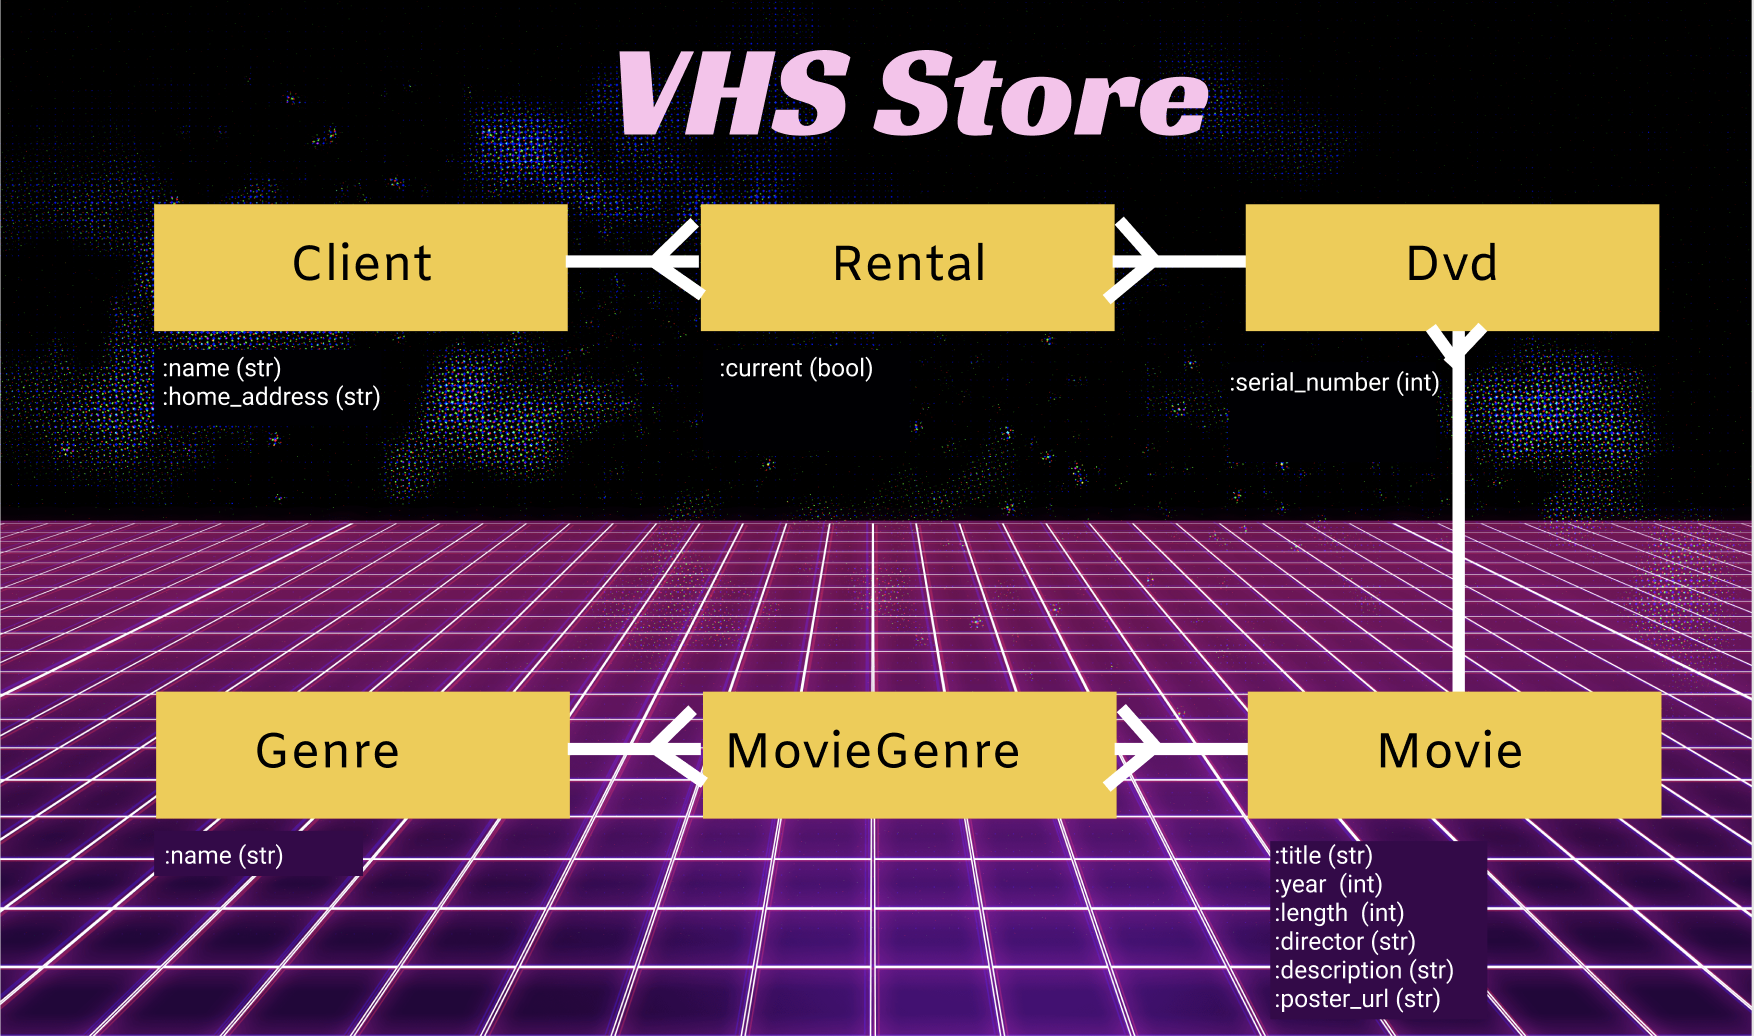
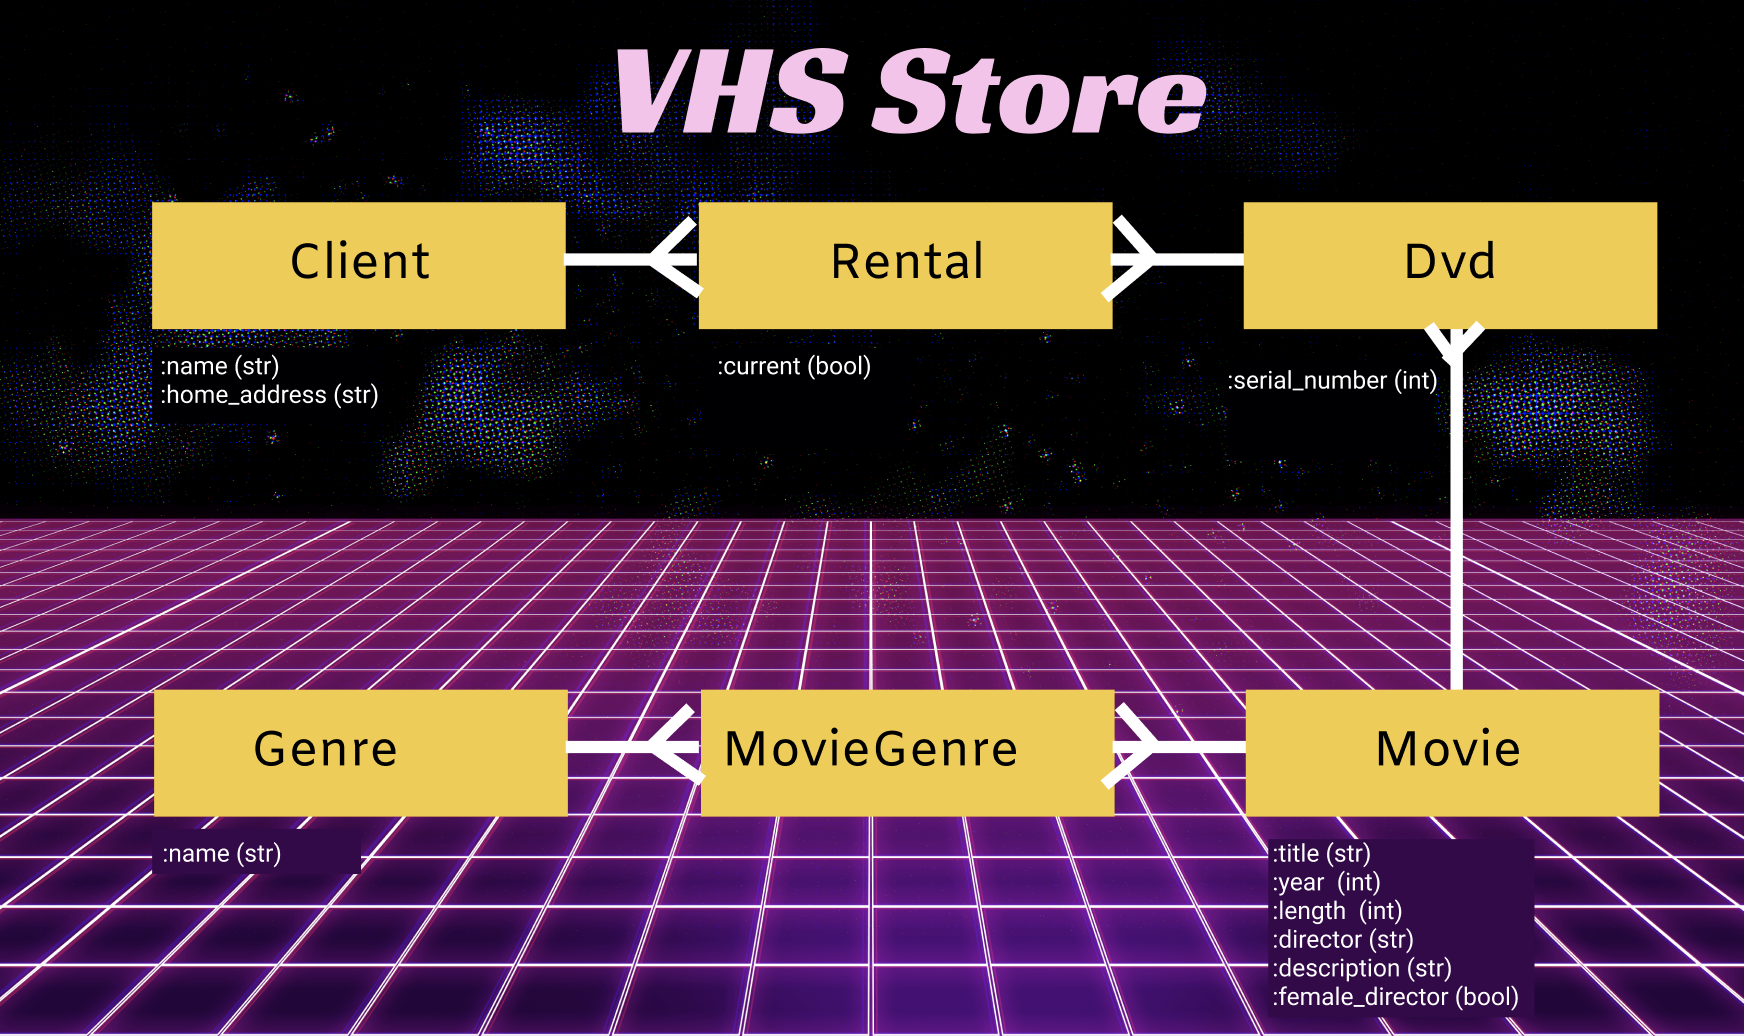
creates seeds

diff --git a/db/seeds.rb b/db/seeds.rb
@@ -1,66 +1,233 @@
-Plant.destroy_all
-Person.destroy_all
-PlantParenthood.destroy_all
-Plant.reset_pk_sequence
-Person.reset_pk_sequence
-PlantParenthood.reset_pk_sequence
+MovieGenre.destroy_all
+Rental.destroy_all
+Dvd.destroy_all
+Client.destroy_all
+Genre.destroy_all
+Movie.destroy_all
+MovieGenre.reset_pk_sequence
+Rental.reset_pk_sequence
+Dvd.reset_pk_sequence
+Client.reset_pk_sequence
+Genre.reset_pk_sequence
+Movie.reset_pk_sequence
 
-########### different ways to write your seeds ############
 
-# 1: save everything to variables (makes it easy to connect models, best for when you want to be intentional about your seeds)
-basil = Plant.create(name: "basil the herb", bought: 20200610, color: "green")
-sylwia = Person.create(name: "Sylwia", free_time: "none", age: 30)
-pp1 = PlantParenthood.create(plant_id: basil.id, person_id: sylwia.id, affection: 1_000_000, favorite?: true)
+def create_movie_joins(movie, genre_array)
+    genre_array.each{|genre| MovieGenre.create(movie_id: movie.id, genre_id: genre.id)}
+end
 
-# 2. Mass create -- in order to connect them later IN SEEDS (not through the app) you'll need to find their id
-## a. by passing an array of hashes:
-Plant.create([
-    {name: "Corn Tree", bought: 20170203, color: "green"},
-    {name: "Prayer plant", bought: 20190815, color: "purple"},
-    {name: "Cactus", bought: 20200110, color: "ugly green"}
-])
-## b. by interating over an array of hashes:
-plants = [{name: "Elephant bush", bought: 20180908, color: "green"},
-    {name: "Photos", bought: 20170910, color: "green"},
-    {name: "Dragon tree", bought: 20170910, color: "green"},
-    {name: "Snake plant", bought: 20170910, color: "dark green"},
-    {name: "polka dot plant", bought: 20170915, color: "pink and green"},
-    {name: "Cactus", bought: 20200517, color: "green"}]
+####### GENRES ########
+puts "✨ creating genres... ✨"
 
-plants.each{|hash| Plant.create(hash)}
+action = Genre.create(name: "action")
+adaptation = Genre.create(name: "adaptation")
+adventure = Genre.create(name: "adventure")
+animation = Genre.create(name: "animation")
+biography = Genre.create(name: "biography")
+comedy = Genre.create(name: "comedy")
+crime = Genre.create(name: "crime")
+docudrama = Genre.create(name: "docudrama")
+documentary = Genre.create(name: "documentary")
+drama = Genre.create(name: "drama")
+fantasy = Genre.create(name: "fantasy")
+historical_period_drama = Genre.create(name: "historical period drama")
+history = Genre.create(name: "history")
+horror = Genre.create(name: "horror")
+melodrama = Genre.create(name: "melodrama")
+mystery = Genre.create(name: "mystery")
+romance = Genre.create(name: "romance")
+sci_fi = Genre.create(name: "sci-fi")
+sport = Genre.create(name: "sport")
+thriller = Genre.create(name: "thriller")
+war = Genre.create(name: "war")
 
-# 3. Use Faker and mass create
-## step 1: write a method that creates a person
-def create_person
-    free = ["mornings", "evenings", "always", "afternoons", "weekends", "none"].sample
+####### MOVIES ########
+puts "✨ creating movies and movie_genres... ✨"
 
-    person = Person.create(
-        name: Faker::Movies::HitchhikersGuideToTheGalaxy.character,
-        free_time: free,
-        age: rand(11...70)
+the_color_purple = Movie.create(
+    title: "The Color Purple",
+    year: 1985,
+    length: 154,
+    director: "Steven Spielberg",
+    description: "Whoopi Goldberg brings Alice Walker’s Pulitzer Prize-winning feminist novel to life as Celie, a Southern woman who suffered abuse over decades. A project brought to a hesitant Steven Spielberg by producer Quincy Jones, the film marks Spielberg’s first female lead.",
+    female_director: false
+)
+create_movie_joins(the_color_purple, [adaptation, historical_period_drama, drama])
+
+frida = Movie.create(
+            title: "Frida",
+            year: 2002,
+            length: 123,
+            director: "Julie Taymor",
+            description: "'Frida' chronicles the life Frida Kahlo shared unflinchingly and openly with Diego Rivera, as the young couple took the art world by storm. From her complex and enduring relationship with her mentor and husband to her illicit and controversial affair with Leon Trotsky, to her provocative and romantic entanglements with women, Frida Kahlo lived a bold and uncompromising life as a political, artistic, and sexual revolutionary.",
+            female_director: true
+)
+create_movie_joins(frida, [biography, adaptation, history, drama, romance])
+
+queen_of_katwe= Movie.create(
+            title: "Queen of Katwe",
+            year: 2016,
+            length: 144,
+            director: "Mira Nair",
+            description: "Living in Katwe, a slum in Kampala, Uganda, is a constant struggle for 10-year-old Phiona, her mother Nakku Harriet and younger members of her family. She and her younger brother help their mother sell maize in the market. She also helps care for her baby brother. Her world changes one day when she meets Robert Katende at a missionary program. Katende coaches soccer and teaches children to play chess at a local center. Curious, Phiona approaches and learns the game. She becomes fascinated with it and soon becomes a top player in the group under Katende's guidance.",
+            female_director: true
+)
+create_movie_joins(queen_of_katwe, [drama, sport, biography])
+
+perspepolis = Movie.create(
+            title: "Persepolis",
+            year: 2007,
+            length: 96,
+            director: "Marjane Satrapi",
+            description: "In 1970s Iran, Marjane 'Marji' Satrapi watches events through her young eyes and her idealistic family of a long dream being fulfilled of the hated Shah's defeat in the Iranian Revolution of 1979. However as Marji grows up, she witnesses first hand how the new Iran, now ruled by Islamic fundamentalists, has become a repressive tyranny on its own. With Marji dangerously refusing to remain silent at this injustice, her parents send her abroad to Vienna to study for a better life. However, this change proves an equally difficult trial with the young woman finding herself in a different culture loaded with abrasive characters and profound disappointments that deeply trouble her. Even when she returns home, Marji finds that both she and homeland have changed too much and the young woman and her loving family must decide where she truly belongs.",
+            female_director: true
+)
+create_movie_joins(persepolis, [animation, war, adaptation, history, biography])
+
+little_women = Movie.create(
+            title: "Little Women",
+            year: 1994,
+            length: 118,
+            director: "Gillian Armstrong",
+            description: "Louisa May Alcott's autobiographical account of her life with her three sisters in Concord, Massachusetts in the 1860s. With their father fighting in the American Civil War, sisters Jo, Meg, Amy and Beth are at home with their mother, a very outspoken women for her time. The story tells of how the sisters grow up, find love and find their place in the world.",
+            female_director: true
+)
+create_movie_joins(little_women, [drama, romance, adaptation, biography])
+
+little_women_2 = Movie.create(
+    title: "Little Women",
+    year: 2019,
+    length: 135,
+    director: "Greta Gerwig",
+    description: "In the years after the Civil War, Jo March (Saoirse Ronan) lives in New York City and makes her living as a writer, while her sister Amy March (Florence Pugh) studies painting in Paris. Amy has a chance encounter with Theodore 'Laurie' Laurence (Timothée Chalamet), a childhood crush who proposed to Jo, but was ultimately rejected. Their oldest sibling, Meg March (Emma Watson), is married to a schoolteacher, while shy sister Beth (Eliza Scanlen) develops a devastating illness that brings the family back together.",
+    female_director: true
+)
+create_movie_joins(little_women_2, [drama, romance, adaptation, biography])
+
+thelma_and_louise = Movie.create(
+            title: "Thelma and Louise",
+            year: 1991,
+            length: 130,
+            director: "Ridley Scott",
+            description: "Louise is working in a diner as a waitress and has some problems with her boyfriend Jimmy, who, as a musician, is always on the road. Thelma is married to Darryl who likes his wife to stay quiet in the kitchen so that he can watch football on TV. One day they decide to break out of their normal life and jump in the car and hit the road. Their journey, however, turns into a flight when Louise kills a man who threatens to rape Thelma. They decide to go to Mexico, but soon they are hunted by American police.",
+            female_director: false
+)
+create_movie_joins(thelma_and_louise, [crime, adventure, drama])
+
+alien = Movie.create(
+            title: "Alien",
+            year: 1979,
+            length: 117,  
+            director: "Ridley Scott",
+            description: "Groundbreaking for 1979 science fiction, Sigourney Weaver’s Ellen Ripley is one of the genre’s most iconic female characters. She’s not a damsel—she’s a badass final girl and the only survivor to defeat the monster that mutilated and destroyed every other member of the Nostromo crew.",
+            female_director: false
+)
+create_movie_joins(alien, [horror, sci_fi])
+
+mad_max = Movie.create(
+            title: "Mad Max Fury Road",
+            year: 2015,
+            length: 140,
+            director: "George Miller",
+            description: "Unearthing feminism in a scorched, hell-on-wheels action flick from road warrior franchise man George Miller isn’t exactly obvious. But though it’s titled after a male character, he is muzzled for much of the film, lending the action to a female imperator and her feminist revolt against the horrors of sexism.",
+            female_director: false
+)
+create_movie_joins(mad_max, [action, adventure, thriller, sci_fi])
+
+mustang = Movie.create(
+            title: "Mustang",
+            year: 2015,
+            length: 100,
+            director: "Deniz Gamze Ergüven",
+            description: "Early summer. In a village in northern Turkey, Lale and her four sisters are walking home from school, playing innocently with some boys. The immorality of their play sets off a scandal that has unexpected consequences. The family home is progressively transformed into a prison; instruction in homemaking replaces school and marriages start being arranged. The five sisters who share a common passion for freedom, find ways of getting around the constraints imposed on them.",
+            female_director: true
+)
+create_movie_joins(mustang, [drama])
+
+girlhood = Movie.create(
+            title: "Girlhood",
+            year: 2014,
+            length: 113,
+            director: "Céline Sciamma",
+            description: "Céline Sciamma’s Girlhood, a contemporary narrative with a classic plot that isn’t too distant from anything in the Jane Austen canon, follows a French teenager’s slog through gang life on a quest to self-discovery.",
+            female_director: true
+)
+create_movie_joins(girlhood, [drama])
+
+erin = Movie.create(
+            title: "Erin Brockovich",
+            year: 2000,
+            length: 113,
+            director: "Steven Soderbergh",
+            description: "Erin Brockovich-Ellis is an unemployed single mother, desperate to find a job, but is having no luck. This losing streak even extends to a failed lawsuit against a doctor in a car accident she was in. With no alternative, she successfully browbeats her lawyer to give her a job in compensation for the loss. While no one takes her seriously, with her trashy clothes and earthy manners, that soon changes when she begins to investigate a suspicious real estate case involving the Pacific Gas & Electric Company. What she discovers is that the company is trying quietly to buy land that was contaminated by hexavalent chromium, a deadly toxic waste that the company is improperly and illegally dumping and, in turn, poisoning the residents in the area. As she digs deeper, Erin finds herself leading point in a series of events that would involve her law firm in one of the biggest class action lawsuits in American history against a multi-billion dollar corporation.",
+            female_director: false
+)
+create_movie_joins(erin, [drama, biography])
+
+babadook = Movie.create(
+            title: "The Babadook",
+            year: 2014,
+            length: 95,
+            director: "Jennifer Kent",
+            description: "Amelia, who lost her husband in a car crash on the way to give birth to Samuel, their only child, struggles to cope with her fate as a single mom. Samuel's constant fear of monsters and violent reaction to overcome the fear doesn't help her cause either, which makes her friends become distant. When things can not get any worse, they read a strange book in their house about the 'Babadook' monster that hides in the dark areas of their house. Even Amelia seems to feel the effect of Babadook and desperately tries in vain to destroy the book. The nightmarish experiences the two encounter form the rest of the story.",
+            female_director: true
+)
+create_movie_joins(babadook, [horror, drama, thriller, mystery])
+
+####### CLIENTS ########
+puts "✨ creating clients... ✨"
+
+20.times do 
+    name = [
+        Faker::Movies::HitchhikersGuideToTheGalaxy.character, 
+        Faker::TvShows::TwinPeaks.character,
+        Faker::TvShows::TheFreshPrinceOfBelAir.character,
+        Faker::TvShows::RuPaul.queen,
+        Faker::JapaneseMedia::StudioGhibli.character,
+        Faker::BossaNova.artist
+    ].sample
+    puts name
+    Client.create(
+        name: name, 
+        address: Faker::Address.full_address
     )
 end
 
-## step 2: write a method that creates a joiner
-def create_joiners(person)
-    plants_number = rand(1..4)
-    plants_number.times do 
-        PlantParenthood.create(
-            plant_id: Plant.all.sample.id, 
-            person_id: person.id, 
-            affection: rand(101), 
-            favorite?: [true, false].sample
-        )
+####### DVDs ########
+puts "✨ creating dvds... ✨"
+
+20.times do 
+    random_movie_id = rand(1..Movie.all.count)
+    random_serial_number = 111 #to be updated
+    Dvd.create(movie_id: random_movie_id, serial_number: random_serial_number)
+end
+
+####### Rentals ########
+puts "✨ creating rentals... ✨"
+
+def find_dvd_id_for_rent
+    random_dvd_id = rand(1..Dvd.all.count)
+    dvd = Dvd.find(random_dvd_id)
+    return dvd.id if !dvd.rentals || dvd.rentals.select{|r| r.current}.empty?
+    find_dvd_id_for_rent
+end
+
+def random_client_id
+    random_client_id = rand(1..Client.all.count)
+    Client.find(random_client_id).id
+end
+
+20.times do
+    number_of_dvds_rented_at_once = rand(1..3)
+    client_id = random_client_id
+    dvd_id = find_dvd_id_for_rent
+    number_of_dvds_rented_at_once.times do
+        Rental.create(client_id: client_id, dvd_id: dvd_id)
     end
 end
 
-## step 3: invoke creating joiners by passing in an instance of a person
-10.times do     
-    create_joiners(create_person)
-    ##### ALTERNATIVE:
-    # person = create_person
-    # create_joiners(person)
-end
+# add some method that switches some rentals to past and overrides the created_at
 
 
-puts "🔥 🔥 🔥 🔥 "
+
+puts "📼 📼 📼 📼 SEEDED 📼 📼 📼 📼 "
